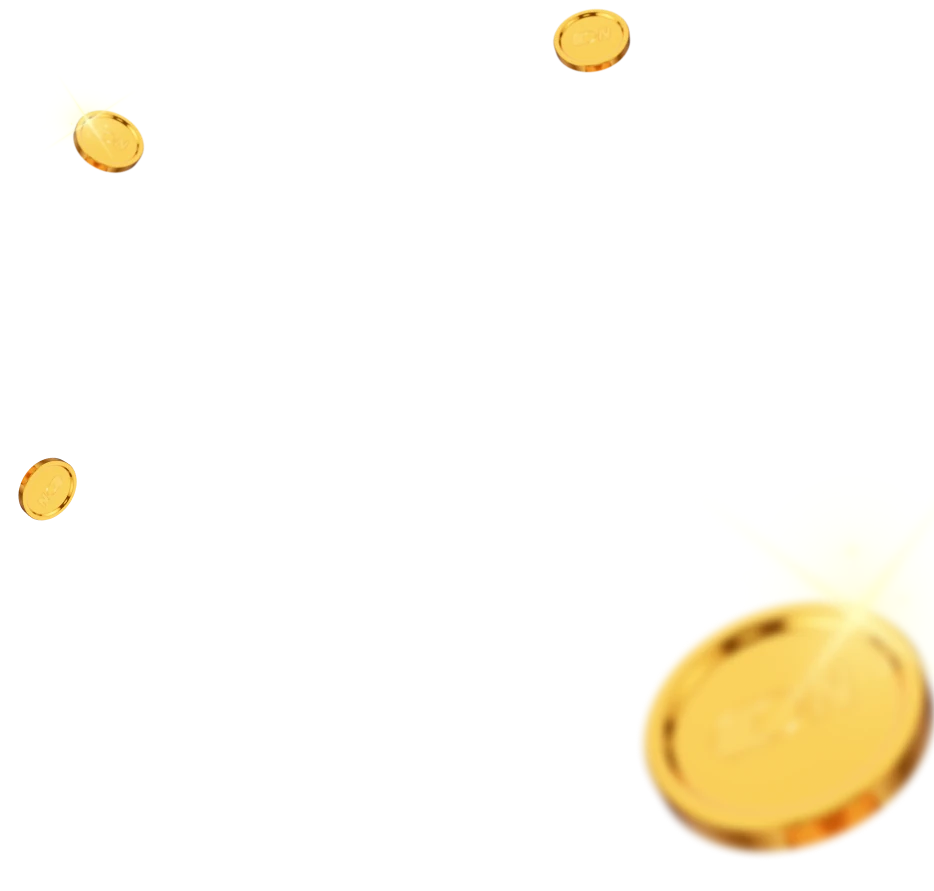
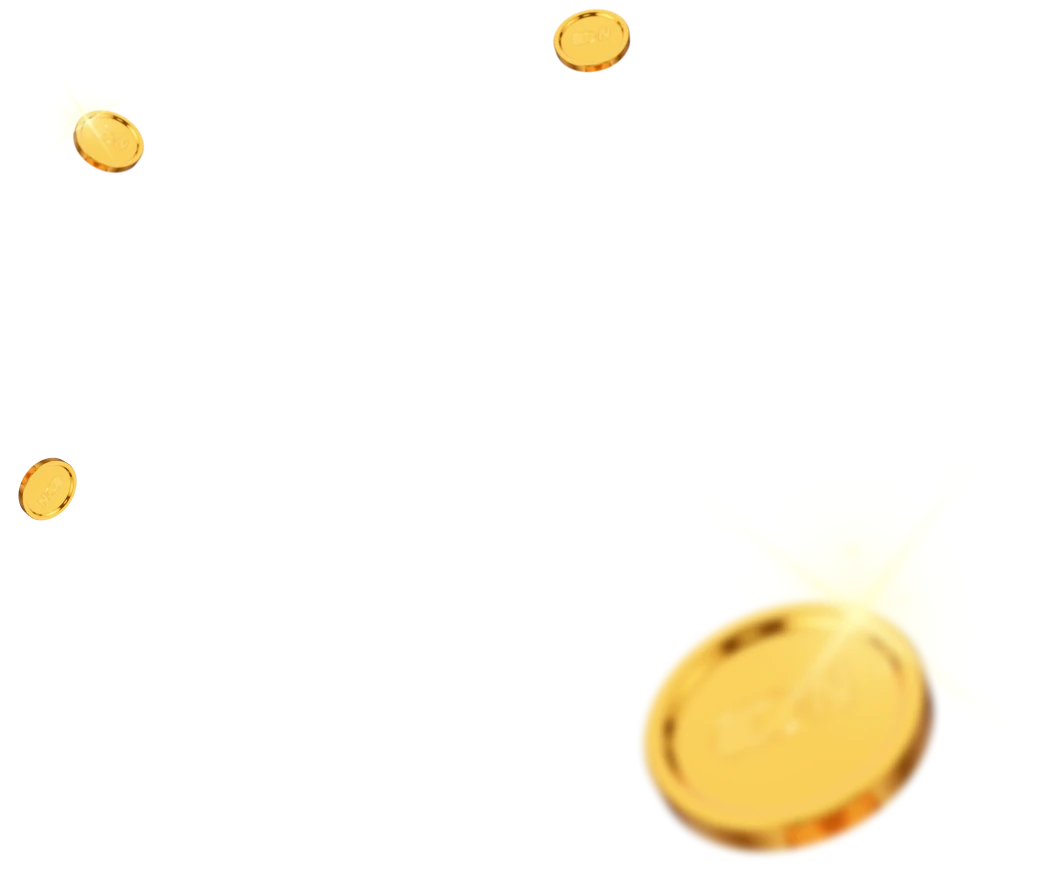
feat: coins background

diff --git a/src/app/landing/wheel/wheel.module.css b/src/app/landing/wheel/wheel.module.css
@@ -9,12 +9,13 @@
 /* TODO: Sync min-width constrain with MOBILE_SCREEN_MAX_WIDTH value */
 @media screen and (min-width: 800px) {
   .wrapper {
-    background-image: url('ball.webp'), url('heart.webp'), url('background.webp');
-    background-size: auto, auto, cover;
+    background-image: url('coins.webp'), url('ball.webp'), url('heart.webp'), url('background.webp');
+    background-size: contain, auto, auto, cover;
     background-position:
+      right,
       bottom -2rem left 40%,
       right 10% top 8rem,
       center;
-    background-repeat: no-repeat, no-repeat, no-repeat;
+    background-repeat: no-repeat;
   }
 }
